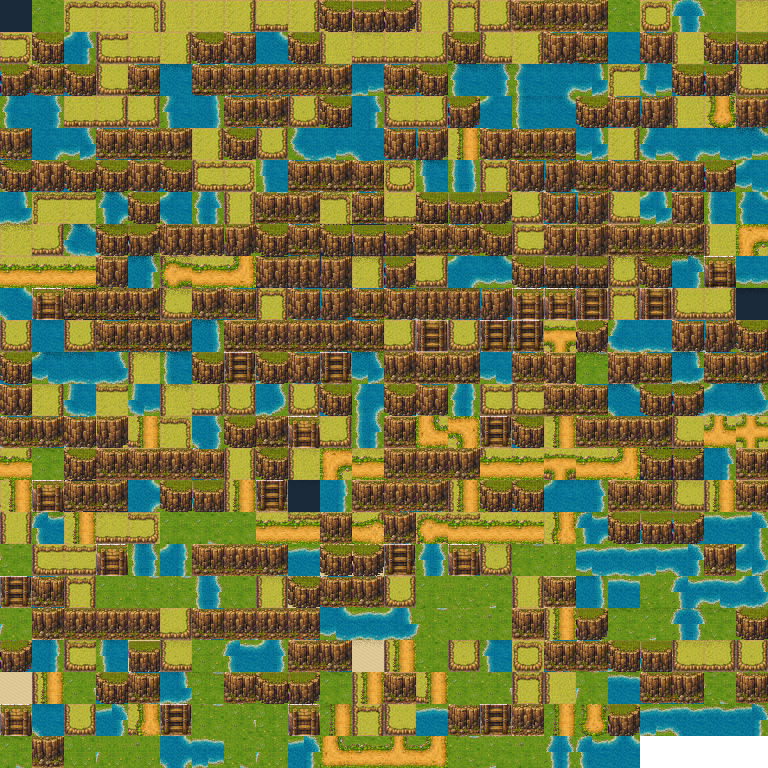
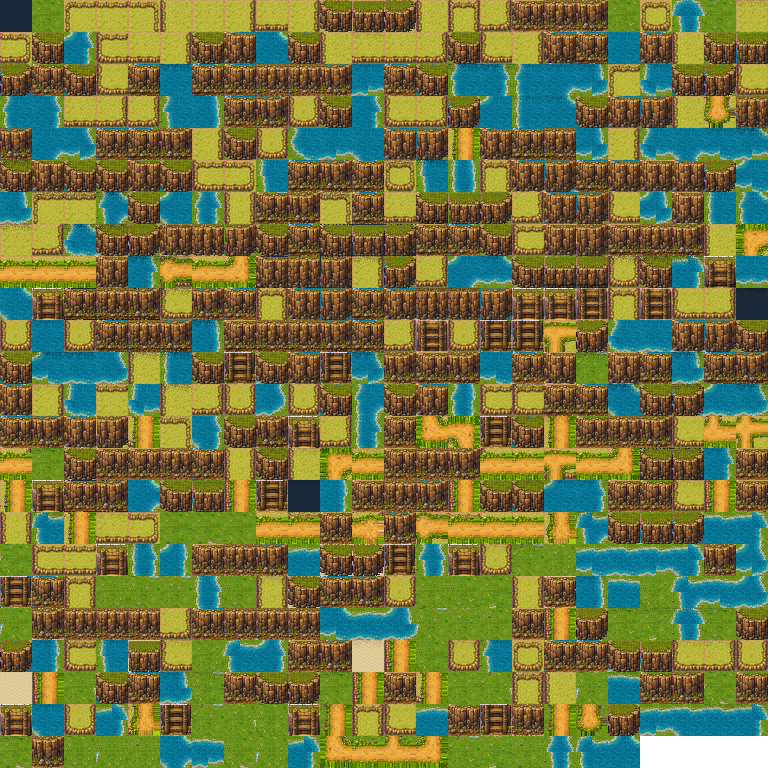
Road: recentre every tile, then rotate centred NW -> corners align with straights
Follow-up to the rotation fix. The rotated corners were self-consistent but their
top/left arms were offset from the straights, because the authored art draws every
tile's road band ~5px right and ~4px below centre (vertical road x-centre 20.5,
horizontal y-centre 19.5; centre 15.5). Rotating the off-centre NW flipped that
offset to the opposite side, so the arms landed ~10px off the straight band.

Fix (tools/harmonize-road-corners.ts, now source -> output):
  (a) recentre every tile by (-5,-4) with edge-clamp fill — road band centred at
      15.5 while still reaching its connecting edges (clamp preserves connectivity);
  (b) rotate the now-centred NW into NE/ES/SW.
Centred straights + centred corners => arms line up. Measured in the render: straights
at x16.5 / y15.5, all eight corner arms now within ~1-2px of those (was 8-11px off).

Added road-wang.src.png as the pristine authored atlas so the tool is idempotent and
reproducible (npm assets:fix:road-corners). Re-baked route + northwood; waystone
unaffected. tsc clean.

diff --git a/tools/harmonize-road-corners.ts b/tools/harmonize-road-corners.ts
@@ -1,57 +1,81 @@
-// Harmonize the four road corner tiles in road-wang.png.
+// Build the aligned road-wang.png from the pristine authored source.
 // ---------------------------------------------------------------------------
-// The curated road-wang.png (4x4 @32px edge-Wang atlas, index == NESW mask) has
-// exactly ONE correctly-formed corner: idx 9 (mask NW, N|W) — its dirt reaches the
-// N and W edges with the grass filling the top-left inner concavity, and its arms
-// line up with the straight tiles. The other three corner slots (NE=3, ES=6, SW=12)
-// held mis-shaped / mis-aligned tiles, so only the NW bend ever rendered cleanly.
+// road-wang.png is a 4x4 @32px edge-Wang atlas the bakers index DIRECTLY by the
+// NESW mask (N=1,E=2,S=4,W=8 -> idx==mask; blit road[m], no LUT). Two defects in the
+// authored art (preserved in road-wang.src.png) made corners never blend:
 //
-// Since a 90deg rotation preserves arm width and position exactly, we regenerate the
-// other three corners as lossless rotations of the good NW tile. All four corners
-// then share identical geometry and align with the straights just like NW does:
-//   NE(3)  = NW rotated 90 CW   (N|W -> N|E)
-//   ES(6)  = NW rotated 180     (N|W -> S|E)
-//   SW(12) = NW rotated 270 CW  (N|W -> S|W)
-// Run after any change to the curated atlas: npm run assets:fix:road-corners
+//  1) OFF-CENTRE ROAD. Every tile's road band sits ~5px right and ~4px below centre
+//     (measured: vertical road x-centre 20.5, horizontal y-centre 19.5; centre=15.5).
+//     Straights tile fine with each other, but it bites once you rotate (see #2).
+//  2) ONLY NW IS A GOOD CORNER. Of the four corner slots only idx 9 (NW) has arms
+//     that match the straights; NE/ES/SW held mis-shaped tiles. The robust fix is to
+//     regenerate them as rotations of NW — but rotating the OFF-CENTRE NW flips its
+//     offset to the opposite side, so the rotated arms land ~10px off and the top/left
+//     strips no longer line up with the straights.
+//
+// Fix, in order:
+//   (a) RECENTRE every tile by (-5,-4) with edge-clamp fill, so the road band is
+//       centred (15.5) in all tiles while still reaching its connecting edges (clamp
+//       replicates the far edge, preserving connectivity for straights/T/cross).
+//   (b) Regenerate the corners as lossless rotations of the now-centred NW:
+//       NE(3)=cw90, ES(6)=180, SW(12)=cw270. Centred + centred => everything aligns.
+//
+// Source of truth is road-wang.src.png (committed); this is idempotent. Re-run with
+// `npm run assets:fix:road-corners`, then re-bake the road stages (route, northwood).
 import { readFileSync, writeFileSync } from "node:fs";
 import nodePath from "node:path";
 import { PNG } from "pngjs";
 
 const repoRoot = process.cwd();
-const ATLAS = nodePath.join(repoRoot, "assetsources/curated/sliced/road-wang.png");
+const SRC = nodePath.join(repoRoot, "assetsources/curated/sliced/road-wang.src.png");
+const OUT = nodePath.join(repoRoot, "assetsources/curated/sliced/road-wang.png");
 const ts = 32, COLS = 4;
 const NW_IDX = 9, NE_IDX = 3, ES_IDX = 6, SW_IDX = 12;
+const SHIFT_X = -5, SHIFT_Y = -4; // recentre the +5,+4 authored offset
 
-const png = PNG.sync.read(readFileSync(ATLAS));
+const src = PNG.sync.read(readFileSync(SRC));
+const out = new PNG({ width: src.width, height: src.height });
 const tileXY = (idx: number) => [(idx % COLS) * ts, Math.floor(idx / COLS) * ts] as const;
+const clamp = (v: number) => (v < 0 ? 0 : v > ts - 1 ? ts - 1 : v);
 
-// read the NW tile into a flat [ts*ts] of [r,g,b,a]
-const [nwx, nwy] = tileXY(NW_IDX);
-const base: number[][] = [];
-for (let y = 0; y < ts; y++) for (let x = 0; x < ts; x++) {
-  const i = ((nwy + y) * png.width + (nwx + x)) * 4;
-  base[y * ts + x] = [png.data[i], png.data[i + 1], png.data[i + 2], png.data[i + 3]];
+// (a) recentre every tile by (SHIFT_X, SHIFT_Y) with edge-clamp fill.
+for (let idx = 0; idx < 16; idx++) {
+  const [tx, ty] = tileXY(idx);
+  for (let y = 0; y < ts; y++) for (let x = 0; x < ts; x++) {
+    const sx = clamp(x - SHIFT_X), sy = clamp(y - SHIFT_Y);
+    const si = ((ty + sy) * src.width + (tx + sx)) * 4;
+    const di = ((ty + y) * out.width + (tx + x)) * 4;
+    out.data[di] = src.data[si]; out.data[di + 1] = src.data[si + 1];
+    out.data[di + 2] = src.data[si + 2]; out.data[di + 3] = src.data[si + 3];
+  }
 }
 
-// map output (x,y) of a rotated tile -> source (x,y) in the NW base
+// read the now-centred NW tile out of `out`
+const [nwx, nwy] = tileXY(NW_IDX);
+const nw: number[][] = [];
+for (let y = 0; y < ts; y++) for (let x = 0; x < ts; x++) {
+  const i = ((nwy + y) * out.width + (nwx + x)) * 4;
+  nw[y * ts + x] = [out.data[i], out.data[i + 1], out.data[i + 2], out.data[i + 3]];
+}
+
+// (b) rotate the centred NW into the other three corner slots.
 const rot = {
   cw90: (x: number, y: number) => [y, ts - 1 - x] as const,
   r180: (x: number, y: number) => [ts - 1 - x, ts - 1 - y] as const,
   cw270: (x: number, y: number) => [ts - 1 - y, x] as const,
 };
-
 function writeRotated(idx: number, map: (x: number, y: number) => readonly [number, number]): void {
   const [dx, dy] = tileXY(idx);
   for (let y = 0; y < ts; y++) for (let x = 0; x < ts; x++) {
     const [sx, sy] = map(x, y);
-    const px = base[sy * ts + sx];
-    const di = ((dy + y) * png.width + (dx + x)) * 4;
-    png.data[di] = px[0]; png.data[di + 1] = px[1]; png.data[di + 2] = px[2]; png.data[di + 3] = px[3];
+    const px = nw[sy * ts + sx];
+    const di = ((dy + y) * out.width + (dx + x)) * 4;
+    out.data[di] = px[0]; out.data[di + 1] = px[1]; out.data[di + 2] = px[2]; out.data[di + 3] = px[3];
   }
 }
-
 writeRotated(NE_IDX, rot.cw90);
 writeRotated(ES_IDX, rot.r180);
 writeRotated(SW_IDX, rot.cw270);
-writeFileSync(ATLAS, PNG.sync.write(png));
-console.log(`harmonized road corners in road-wang.png: NE/ES/SW are now rotations of the NW tile (idx ${NW_IDX}).`);
+
+writeFileSync(OUT, PNG.sync.write(out));
+console.log(`road-wang.png built from src: recentred by (${SHIFT_X},${SHIFT_Y}); NE/ES/SW = rotations of centred NW.`);
